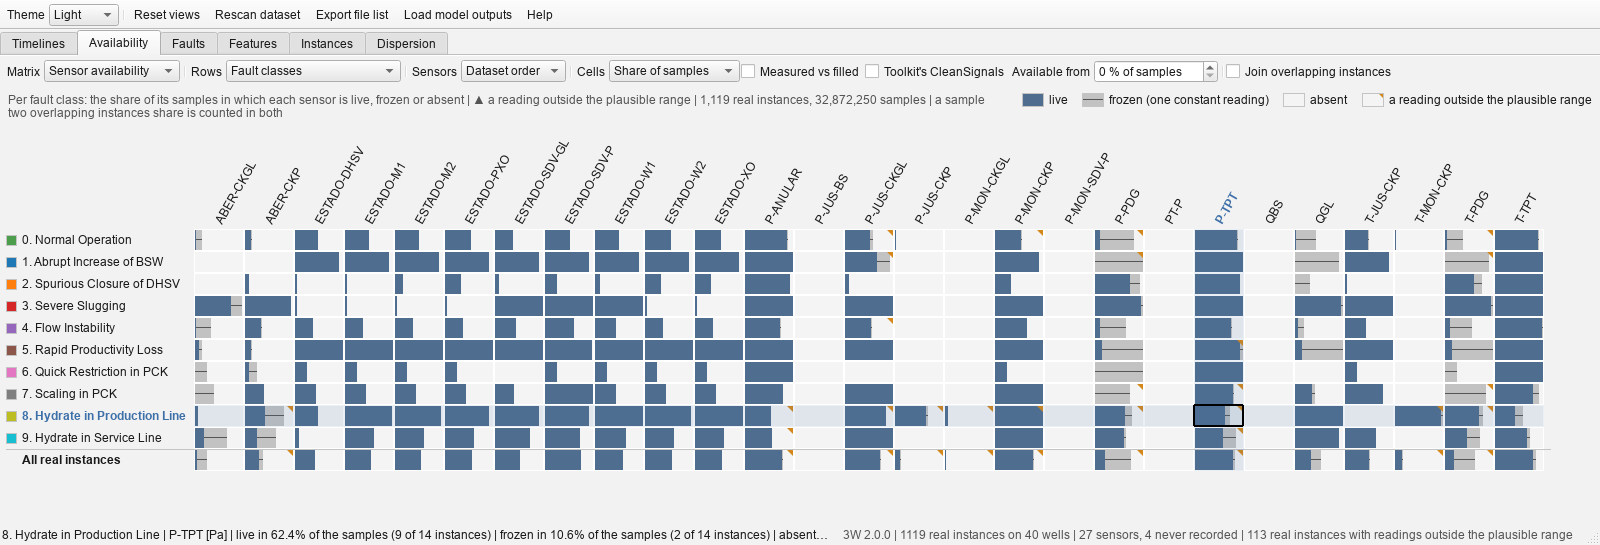
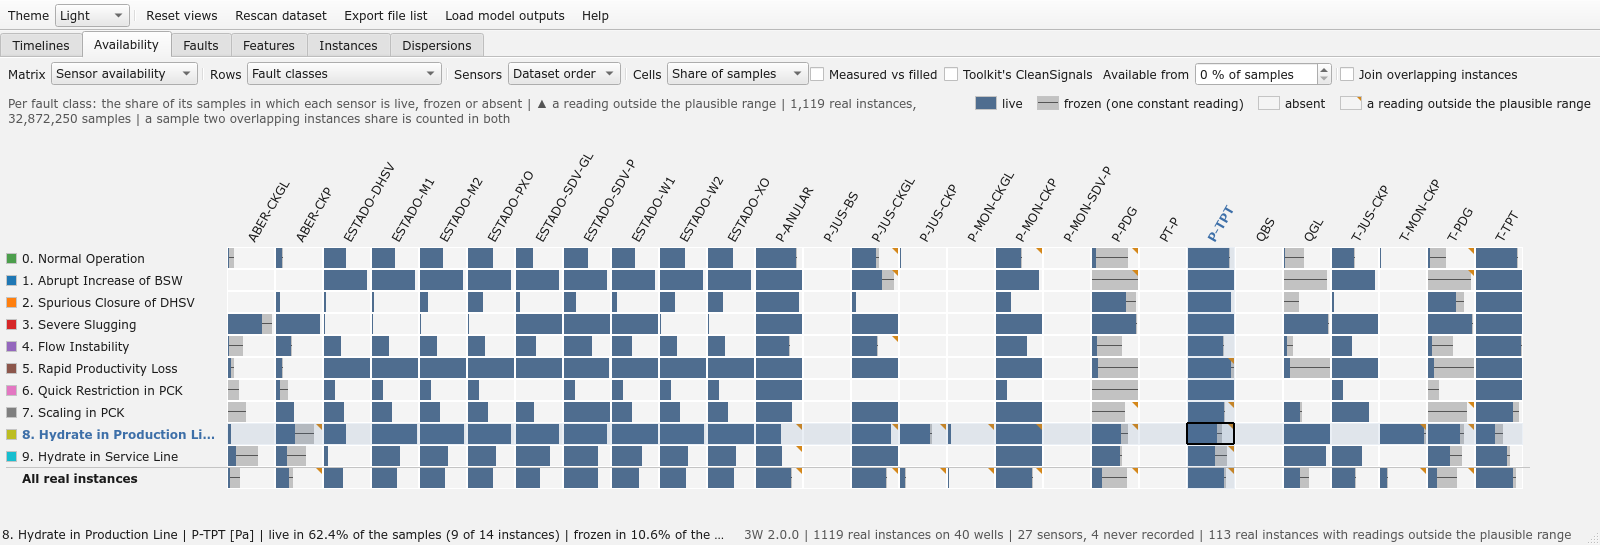
chore: small improvements to Dispersions page

Changed region(s): [[0.0, 0.2807, 0.9688, 0.9046], [0.0, 0.0, 1.0, 0.2495], [0.0, 0.967, 1.0, 0.9982]]

diff --git a/src/overlap_viewer/frontend/map_page.py b/src/overlap_viewer/frontend/map_page.py
@@ -34,7 +34,7 @@ import numpy as np
 import pandas as pd
 import pyqtgraph as pg
 from PySide6.QtCore import Qt, QTimer, Signal
-from PySide6.QtGui import QCursor
+from PySide6.QtGui import QAction, QCursor
 from PySide6.QtWidgets import (
     QApplication,
     QCheckBox,
@@ -43,6 +43,7 @@ from PySide6.QtWidgets import (
     QLabel,
     QSizePolicy,
     QSpinBox,
+    QSplitter,
     QToolBar,
     QTreeWidget,
     QTreeWidgetItem,
@@ -66,7 +67,14 @@ from overlap_viewer.frontend.series_page import LIST_WIDTH
 HINT = (
     "Every point is one real instance, or one joined bar | hover a point to name it, click it to "
     "open its time series | the boxes choose what places the points, what colors them and how "
-    "they are grouped | the list on the right is the label audit | F1 for help"
+    "they are grouped | the list on the right is the label audit, drag its edge to resize it | "
+    "F1 for help"
+)
+AUDIT_MIN_WIDTH = 200  # the audit can be dragged narrower than this only by retracting it
+AUDIT_TOGGLE_TIP = (
+    "Show or hide the label audit on the right, to give the map its width; drag its left edge to "
+    "widen or narrow it. It retracts by itself under the DTW representation, which compares the "
+    "instances of one class, and comes back as it was on leaving it."
 )
 
 COLORINGS = ("Fault class", "Well", "Cluster", "Typicality", "Novelty", "Model agreement")
@@ -244,8 +252,17 @@ class MapPage(QWidget):
         plot.addItem(self._highlight, ignoreBounds=True)
         self._plot_widget.scene().sigMouseMoved.connect(self._on_mouse_moved)
         self._plot_widget.scene().sigMouseClicked.connect(self._on_mouse_clicked)
-        body_layout.addWidget(self._plot_widget, 1)
-        body_layout.addWidget(self._build_audit_panel())
+        # The audit beside the map on a splitter, so that its handle trades the
+        # width of one for the other; the toggle on the second row retracts it.
+        self._splitter = QSplitter(Qt.Orientation.Horizontal)
+        self._splitter.setChildrenCollapsible(False)
+        self._splitter.addWidget(self._plot_widget)
+        self._audit_panel = self._build_audit_panel()
+        self._splitter.addWidget(self._audit_panel)
+        self._splitter.setStretchFactor(0, 1)
+        self._splitter.setStretchFactor(1, 0)
+        self._splitter.setSizes([10 * LIST_WIDTH, LIST_WIDTH])
+        body_layout.addWidget(self._splitter, 1)
         layout.addWidget(body, 1)
         self._note = ElidedLabel("")
         self._note.setContentsMargins(8, 0, 8, 2)
@@ -339,12 +356,27 @@ class MapPage(QWidget):
         self._scores_label = QLabel("")
         self._scores_label.setSizePolicy(QSizePolicy.Policy.Expanding, QSizePolicy.Policy.Preferred)
         bar.addWidget(self._scores_label)
+        bar.addSeparator()
+        self._show_audit = QAction("Label audit", self)
+        self._show_audit.setCheckable(True)
+        self._show_audit.setChecked(True)
+        self._show_audit.setToolTip(AUDIT_TOGGLE_TIP)
+        self._show_audit.toggled.connect(self._on_audit_toggled)
+        bar.addAction(self._show_audit)
+        # What the user asked of the audit outside the DTW representation,
+        # which hides it: leaving DTW gives it back as it was.
+        self._audit_wanted = True
         self._sync_clustering_controls()
         return bar
 
+    def _on_audit_toggled(self, shown: bool) -> None:
+        self._audit_panel.setVisible(shown)
+        if self.representation != "dtw":
+            self._audit_wanted = shown
+
     def _build_audit_panel(self) -> QWidget:
         panel = QWidget()
-        panel.setFixedWidth(LIST_WIDTH)
+        panel.setMinimumWidth(AUDIT_MIN_WIDTH)
         layout = QVBoxLayout(panel)
         layout.setContentsMargins(0, 0, 0, 0)
         layout.addWidget(QLabel("<b>Label audit</b>"))
@@ -380,6 +412,19 @@ class MapPage(QWidget):
             action.setVisible(not dtw)
         for action in self._dtw_actions:
             action.setVisible(dtw)
+
+    def _sync_audit_panel(self) -> None:
+        """Retract the audit under the DTW representation, and give it back as it was on leaving.
+
+        DTW compares the instances of one class only, so its map has the whole
+        width to itself; the toggle still shows the audit if it is asked for.
+        """
+        wanted = self._audit_wanted and self.representation != "dtw"
+        if self._show_audit.isChecked() != wanted:
+            self._show_audit.blockSignals(True)
+            self._show_audit.setChecked(wanted)
+            self._show_audit.blockSignals(False)
+        self._audit_panel.setVisible(wanted)
 
     def _sync_clustering_controls(self) -> None:
         wants_k = self.clustering in ("k-means", "Gaussian mixture", "Agglomerative")
@@ -545,6 +590,7 @@ class MapPage(QWidget):
 
     def _on_representation_changed(self, *args) -> None:
         self._sync_representation_controls()
+        self._sync_audit_panel()
         self._recompute()
 
     def _on_clustering_changed(self, *args) -> None:

diff --git a/src/overlap_viewer/backend/help_text.py b/src/overlap_viewer/backend/help_text.py
@@ -949,7 +949,7 @@ AVAILABILITY_NOTES = [
             "the severe-slugging class moves by more than 0.03) because a pooled coefficient is "
             "set by the levels the sensors sit at from one instance to the next, not by what "
             "happens between two measurements. The lines' spurious dynamics live inside one "
-            "instance, at the scale of seconds, which is where the Dispersion page looks. The "
+            "instance, at the scale of seconds, which is where the Dispersions page looks. The "
             "caveat that does bite stands in the title: pooling the instances of a class, or of "
             "the whole dataset, mixes the levels of different wells into the coefficient, two "
             "sensors that both run higher on one well than on another correlate through the "
@@ -1286,7 +1286,7 @@ MODEL_SOURCES = (
 )
 
 DISPERSION_INTRO = (
-    "The <b>Dispersion</b> page draws two sensors against each other, every sample of the "
+    "The <b>Dispersions</b> page draws two sensors against each other, every sample of the "
     "instances of a scope one dot (over every real instance, one fault class or one well, as "
     "instances or as the joined bars), with the density of the samples shaded behind the dots. "
     "It is the scatter plot of Melo's exploratory methodology made readable: a static scatter of "
@@ -1856,7 +1856,10 @@ USAGE = {
             "The list on the right is the label audit: class by class, the instances whose label "
             "disagrees with the one-class model of the normal instances: fault instances that "
             "look normal, normal instances that look anomalous. Hover one to find its point, click "
-            "it to open it."
+            "it to open it. Drag its left edge to widen or narrow it; 'Label audit', at the right "
+            "of the second row, hides it to give the map its width. It hides itself under the DTW "
+            "representation, which compares the instances of one class, and comes back as it was "
+            "on leaving it."
         ),
         (
             "What the map computes travels: 'Bar color' on the Timelines can take the cluster or "
@@ -1882,7 +1885,7 @@ USAGE = {
             "representation."
         ),
     ],
-    "Dispersion page": [
+    "Dispersions page": [
         (
             "Pick two sensors in 'X' and 'Y' and a scope in 'Over': every sample of the "
             "instances of the scope is one dot, the density of the samples shaded behind. The "

diff --git a/src/overlap_viewer/frontend/window.py b/src/overlap_viewer/frontend/window.py
@@ -48,7 +48,7 @@ HELP_TABS = {
     FaultsPage: "Fault classes",
     FeaturesPage: "Variables",
     MapPage: "Instances map",
-    DispersionPage: "Dispersion",
+    DispersionPage: "Dispersions",
 }
 
 
@@ -61,7 +61,7 @@ class MainWindow(QMainWindow):
     launch, and it happens before anything is on screen.
     """
 
-    PAGE_TITLES = ("Timelines", "Availability", "Faults", "Features", "Instances", "Dispersion")
+    PAGE_TITLES = ("Timelines", "Availability", "Faults", "Features", "Instances", "Dispersions")
     PAGE_TIPS = (
         "Every real instance of every well, laid out in time",
         "What the sensors recorded, per fault class, per well, or instance by instance",
@@ -115,7 +115,7 @@ class MainWindow(QMainWindow):
         self.features = FeaturesPage(info, self._frames, passes=self._passes)
         report("Building the Instances page…")
         self.map = MapPage(info, passes=self._passes)
-        report("Building the Dispersion page…")
+        report("Building the Dispersions page…")
         self.dispersion = DispersionPage(info, passes=self._passes)
         # A tab's tooltip is not a widget's, so it is bounded here rather than
         # by the filter ``styling.install_tooltips`` puts on the application.

diff --git a/src/overlap_viewer/frontend/help.py b/src/overlap_viewer/frontend/help.py
@@ -444,7 +444,7 @@ def model_help_page() -> str:
 
 def dispersion_help_page() -> str:
     """The dispersion page: the cloud, the historian's lines in it, the scopes and the cost."""
-    parts = ["<h2>Dispersion</h2>", f"<p>{DISPERSION_INTRO}</p>"]
+    parts = ["<h2>Dispersions</h2>", f"<p>{DISPERSION_INTRO}</p>"]
     for title, text in DISPERSION_NOTES:
         parts.append(f"<h3>{title}</h3><p>{text}</p>")
     parts.append(f'<hr><p class="sub">{DISPERSION_SOURCES}</p>')
@@ -474,7 +474,7 @@ class HelpWindow(QDialog):
         "Well status",
         "Data availability",
         "Instances map",
-        "Dispersion",
+        "Dispersions",
         "Model outputs",
         "Using the viewer",
     )

diff --git a/src/overlap_viewer/frontend/items.py b/src/overlap_viewer/frontend/items.py
@@ -116,7 +116,7 @@ def restyle_axes(plot_item: pg.PlotItem) -> None:
     background, and the grid appears to vanish. Most pages throw their plots
     away and build them again whenever the catalogue is laid out, and need none
     of this; the pages that keep one plot for their whole life (the Instances
-    map and the Dispersion cloud) call this from ``apply_theme``. The tick pen
+    map and the Dispersions cloud) call this from ``apply_theme``. The tick pen
     is left alone: unset, it follows the axis pen.
     """
     foreground = theme.current().plot_foreground

diff --git a/scripts/screenshots.py b/scripts/screenshots.py
@@ -196,7 +196,7 @@ def main(argv=None) -> int:
     if page(window.map, "instances", wait=8.0):
         shooter.save(window, "instances")
 
-    # -- Dispersion ------------------------------------------------------------
+    # -- Dispersions -----------------------------------------------------------
     # A handful of readings at 8e7 Pa push the whole cloud into the bottom
     # fifth of an auto-ranged view, so the frame is set on the cloud itself.
     if page(window.dispersion, "dispersion", wait=1.0):

diff --git a/src/overlap_viewer/frontend/availability_page.py b/src/overlap_viewer/frontend/availability_page.py
@@ -142,7 +142,7 @@ SMOOTH_TIP = (
     "coefficients hardly move with it (the whole dataset's global coefficient goes from 0.420 to "
     "0.424 between none and five minutes), because they are set by the levels the sensors sit at "
     "from one instance to the next; the historian's lines between measurements matter inside one "
-    "instance, at the scale of seconds, where the Dispersion page looks."
+    "instance, at the scale of seconds, where the Dispersions page looks."
 )
 
 

diff --git a/src/overlap_viewer/frontend/dispersion_page.py b/src/overlap_viewer/frontend/dispersion_page.py
@@ -839,7 +839,7 @@ class DispersionPage(QWidget):
 
     def shown_source(self) -> str:
         """Where the file list came from, for its provenance."""
-        return f"the Dispersion page | {self.x} × {self.y} | over {self._scope_name()}" + (
+        return f"the Dispersions page | {self.x} × {self.y} | over {self._scope_name()}" + (
             " | joined bars" if self.joined else ""
         )
 

diff --git a/README.md b/README.md
@@ -26,7 +26,7 @@ summarized in the following table and detailed in their own READMEs.
 | [Faults](docs/gui/Faults.md)             | Compare how one fault looks across every well it occurred on                                         | Every real instance of one fault, aligned at its onset, one section per sensor, as small multiples or overlaid, in the time, distribution or spectrum domain                                                                          |
 | [Features](docs/gui/Features.md)         | Compare what one sensor reads across every fault class                                               | One sensor fixed, one section per fault class, the same layouts, domains and transforms as the Faults page                                                                                                                            |
 | [Instances](docs/gui/Instances.md)       | Place every real instance on one plane by what its sensors amount to                                 | A 2D embedding (PCA, t-SNE or UMAP) of each instance's descriptors or DTW shape, colored by class, well, cluster, typicality, novelty or model agreement, with clustering scores and a label-audit of disagreements                   |
-| [Dispersion](docs/gui/Dispersion.md)     | See two sensors against each other, the way the historian's interpolation shows up in a scatter plot | A point cloud, with its density, of two sensors over a scope (every instance, one class or one well), colored by class, well or label period, thinnable to genuine measurements alone                                                 |
+| [Dispersions](docs/gui/Dispersions.md)   | See two sensors against each other, the way the historian's interpolation shows up in a scatter plot | A point cloud, with its density, of two sensors over a scope (every instance, one class or one well), colored by class, well or label period, thinnable to genuine measurements alone, or one dot per instance                        |
 
 Furthermore, an *instance window* is available for visualizing the signals and labeling of an instance (see [the color code](docs/gui/ColorCode.md)).
 This window can be accessed whenever user clicks on a representation of an instance (horizontal bar in the Timelines page, points in cluster maps, etc.), and is [documented in detail](docs/gui/InstanceWindow.md).

diff --git a/src/README.md b/src/README.md
@@ -60,7 +60,7 @@ src/overlap_viewer/
     ├── faults_page.py        the faults page: one fault, a section per feature, its instances in the color of their well
     ├── features_page.py      the features page: one sensor, a section per fault class, the classes over one another when overlaid
     ├── map_page.py           the Instances map: the points, their colorings, the clustering scores, the label audit
-    ├── dispersion_page.py    the Dispersion page: two sensors against each other over a scope, the dots, the density, the measurements alone
+    ├── dispersion_page.py    the Dispersions page: two sensors against each other over a scope, the dots, the density, the measurements alone
     ├── instance_window.py    the time series of a group of overlapping instances, with their distributions and spectra
     └── window.py             the main window: the pages, the shared toolbar and status bar, the windows they open
 ```
@@ -693,11 +693,13 @@ clustering scores and a "label audit" list of instances a one-class model disagr
   `results_changed(MapResults)`. `_compute()` is the master pipeline: build representation → embed →
   cluster (+ score) → typicality → novelty → redraw → fill the audit panel → emit `results_changed`.
   Toolbar controls that need a missing optional extra are greyed with the install command
-  (`_grey(box, index, reason)`).
+  (`_grey(box, index, reason)`). The audit panel sits on a `QSplitter` beside the plot and is
+  toggled by the *Label audit* action; `_sync_audit_panel()` retracts it under the DTW
+  representation and restores the user's choice on leaving it.
 
 ### `dispersion_page.py`
 
-The Dispersion page: draws two chosen sensors against each other as a point cloud over a scope
+The Dispersions page: draws two chosen sensors against each other as a point cloud over a scope
 (all/one class/one well, optionally joined), with density shading, coloring modes, smoothing,
 measurements-only filtering, label-period filters, and hover/click on individual samples.
 

diff --git a/docs/gui/Instances.md b/docs/gui/Instances.md
@@ -42,6 +42,9 @@ of the process; everything is an analysis of the catalogue, recomputed on every 
   outside its boundary) makes of every label: class by class, the fault instances that *look
   normal* to it and the normal instances that *look anomalous*, each a click away. It is an audit
   of the labels, not a detector; under the *Novelty* coloring the disagreements wear a dark ring.
+  Its left edge drags to widen or narrow it, and **Label audit**, at the right end of the second
+  row, hides it to give the map its width. It hides itself under the DTW representation, which
+  compares the instances of one class, and comes back as it was on leaving it.
 - **Join overlapping instances** makes the points the bars of the joined view, each merged
   recording profiled as the one series it is; the Timelines take the map's colorings only on the
   view it was drawn on.

diff --git a/docs/gui/Availability.md b/docs/gui/Availability.md
@@ -117,7 +117,7 @@ between variables three ways at once, and the matrix offers the three
   (the global coefficient of the whole dataset goes from 0.420 to 0.424 between none and five
   minutes), because a pooled coefficient is set by the levels the sensors sit at from one instance
   to the next, not by what happens between two measurements. The lines' spurious dynamics live
-  inside one instance, at the scale of seconds, where the Dispersion page looks.
+  inside one instance, at the scale of seconds, where the Dispersions page looks.
 - **Over** is the scope, and it carries the caveat that does bite, stated in the title: pooling the
   instances of a class or of the whole dataset mixes the levels of different wells into the
   coefficient. With every well pooled the mutual-information coefficient of almost every pair reads
